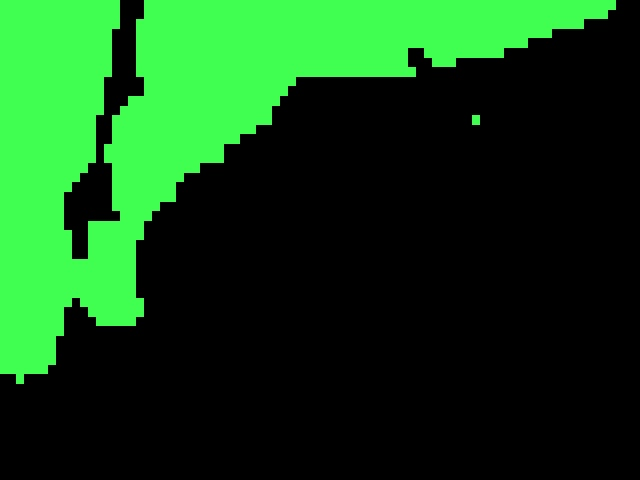
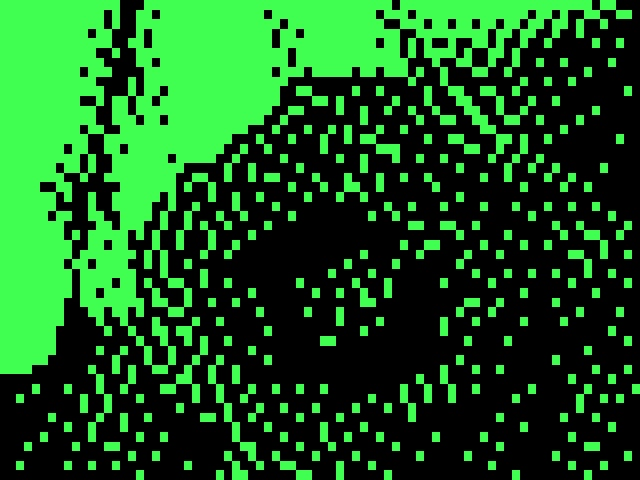
BitPast: dithered PET tile in the gallery
The PET's default threshold left the dark rose almost black; the tile now
uses Atkinson dither, and its caption says so.

diff --git a/Bitpast/index.html b/Bitpast/index.html
@@ -420,7 +420,7 @@
                 <figure class="machine panel"><div class="tv"><img src="screens/machines/vic20.jpg" alt="Rose on the VIC-20" loading="lazy" width="640" height="480"></div><figcaption class="caption"><strong>VIC-20</strong><span>Hi-Res, custom characters</span></figcaption></figure>
                 <figure class="machine panel"><div class="tv"><img src="screens/machines/zxspectrum.jpg" alt="Rose on the ZX Spectrum" loading="lazy" width="640" height="480"></div><figcaption class="caption"><strong>ZX Spectrum</strong><span>2 colors per 8x8 cell</span></figcaption></figure>
                 <figure class="machine panel"><div class="tv"><img src="screens/machines/colecovision.jpg" alt="Rose on the ColecoVision" loading="lazy" width="640" height="480"></div><figcaption class="caption"><strong>ColecoVision</strong><span>2 colors per 8x1 stretch, 16 colors</span></figcaption></figure>
-                <figure class="machine panel"><div class="tv"><img src="screens/machines/pet.jpg" alt="Rose on the Commodore PET" loading="lazy" width="640" height="480"></div><figcaption class="caption"><strong>Commodore PET</strong><span>40 columns, block graphics</span></figcaption></figure>
+                <figure class="machine panel"><div class="tv"><img src="screens/machines/pet.jpg" alt="Rose on the Commodore PET" loading="lazy" width="640" height="480"></div><figcaption class="caption"><strong>Commodore PET</strong><span>40 columns, Atkinson dither</span></figcaption></figure>
                 <figure class="machine panel"><div class="tv"><img src="screens/machines/atari2600.jpg" alt="Rose on the Atari 2600" loading="lazy" width="640" height="480"></div><figcaption class="caption"><strong>Atari 2600</strong><span>2 of 128 colors per line</span></figcaption></figure>
             </div>
         </div>
